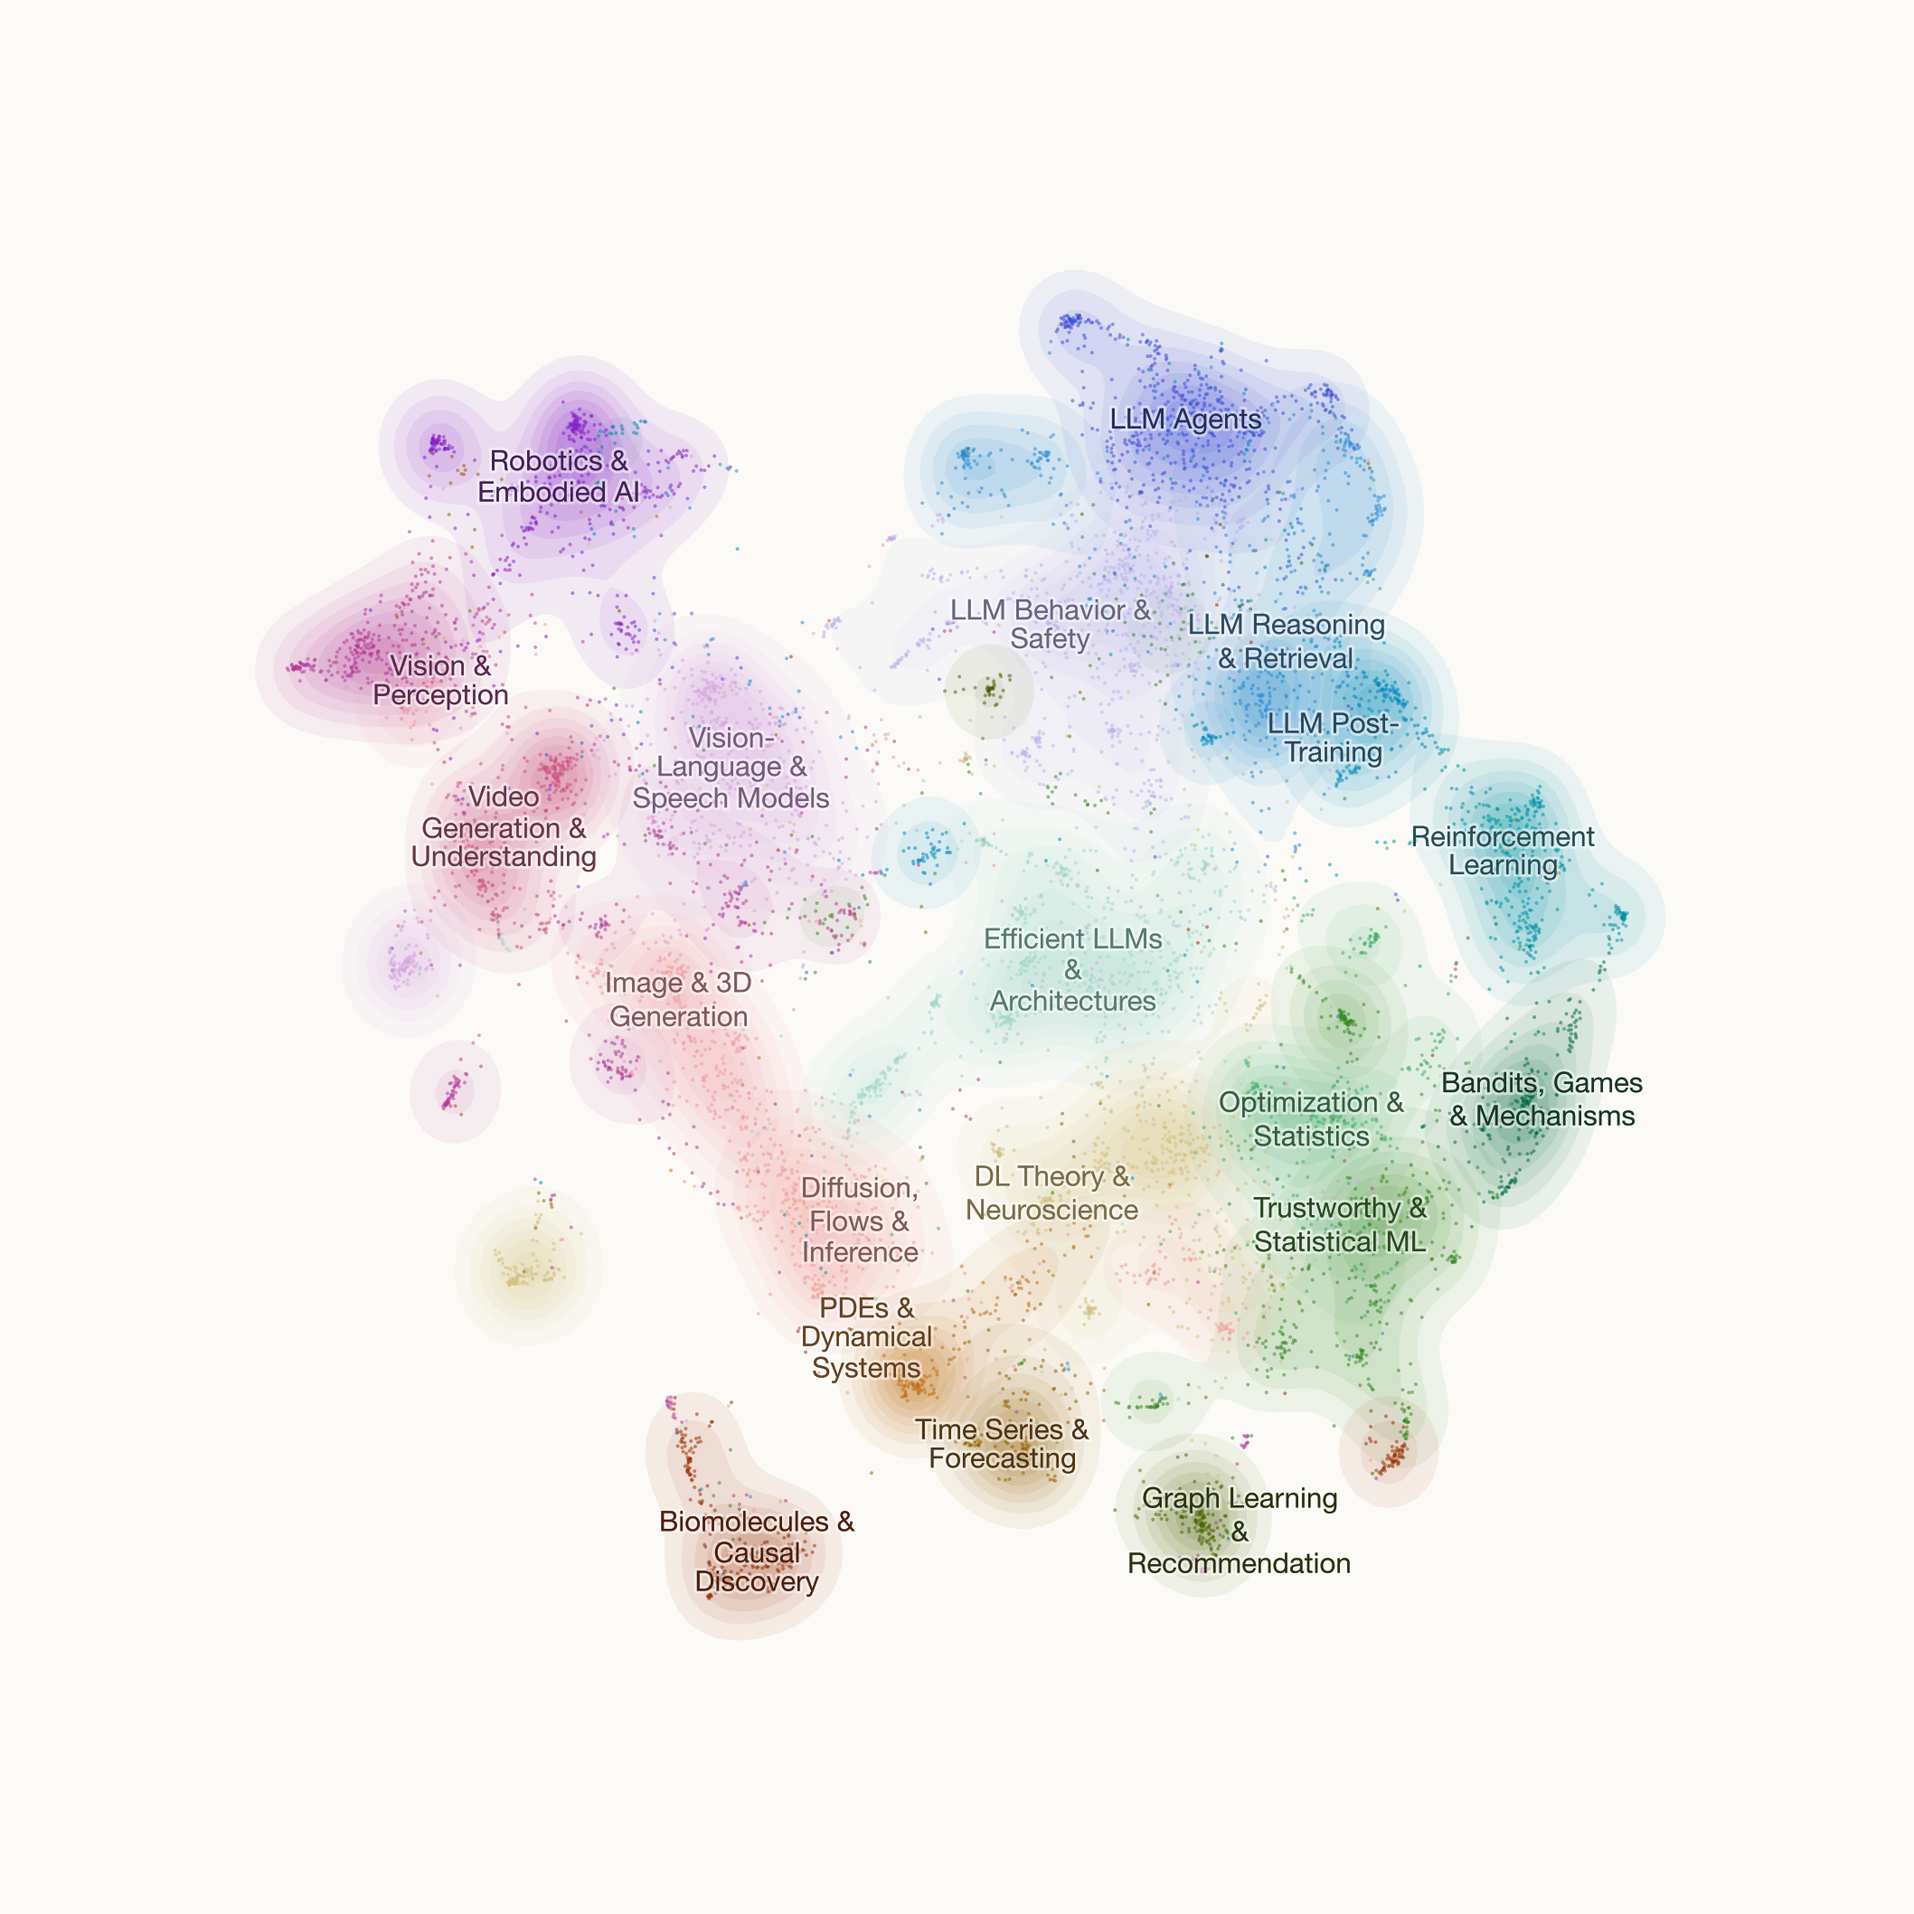
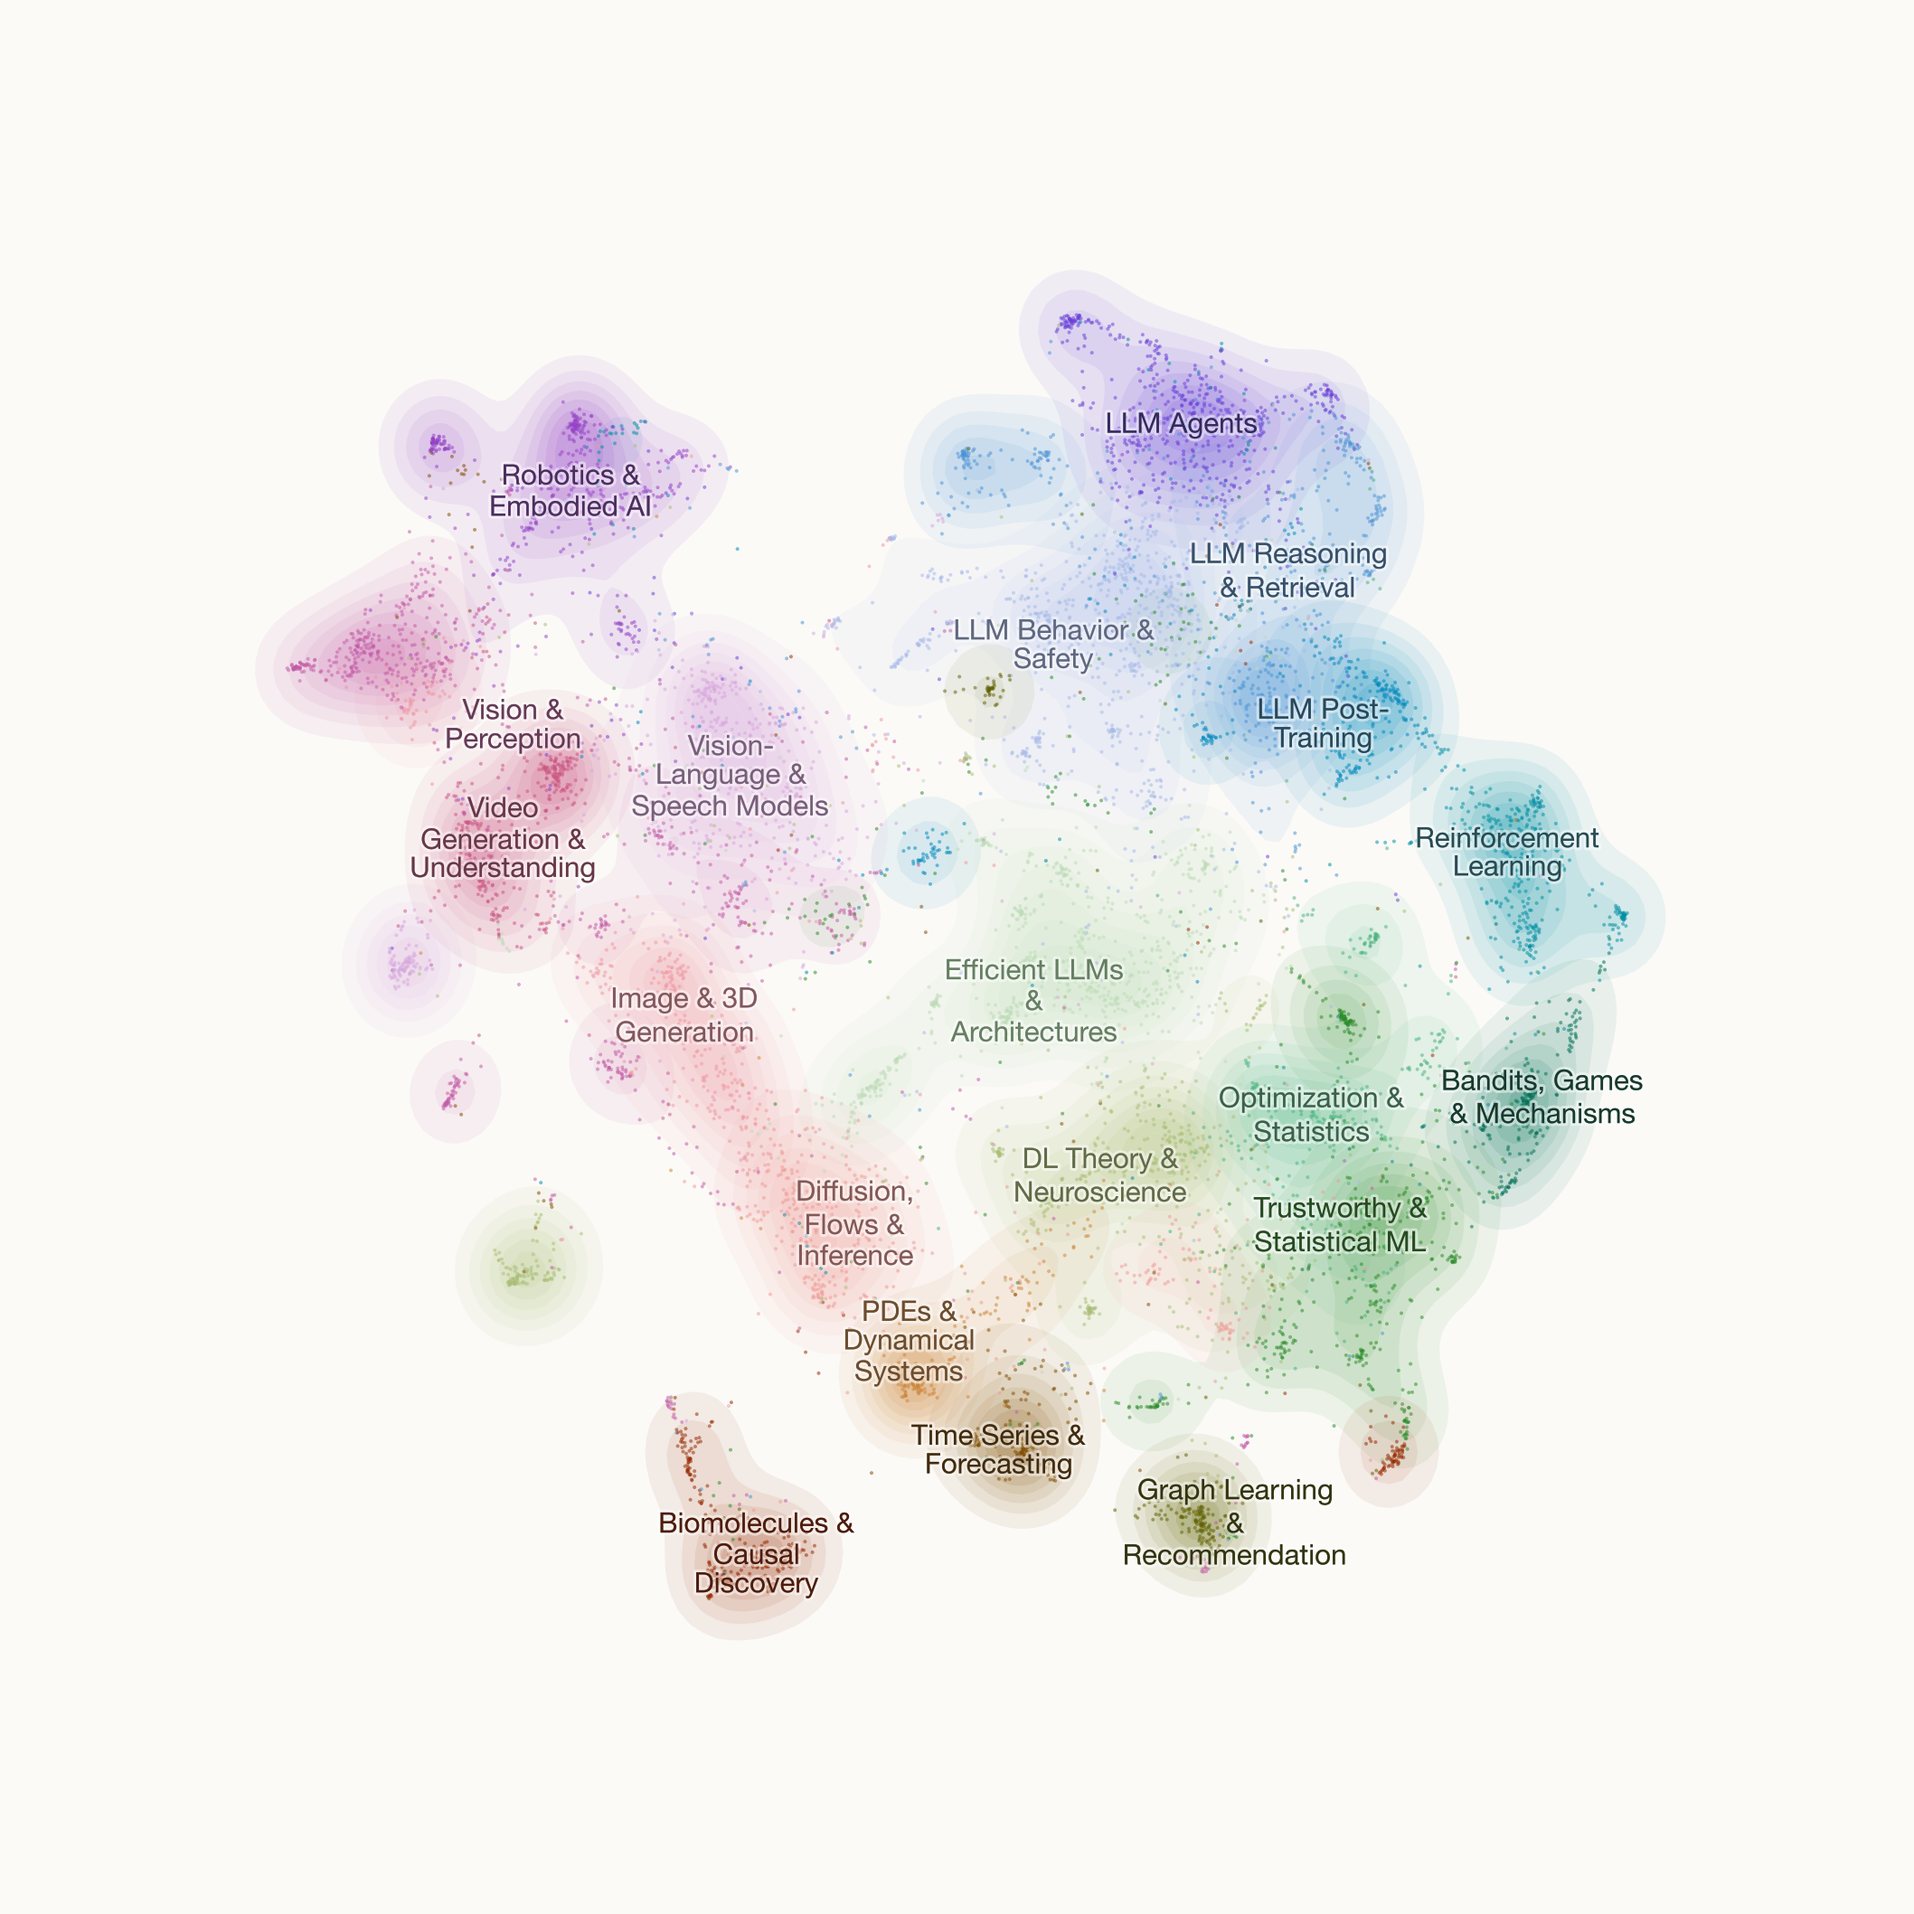
Load the live map only when the reader asks for it
The story page shows a picture of the map first. A click loads the live map,
or opens it full screen on phones, so the page stays fast.

diff --git a/docs/2026/index.html b/docs/2026/index.html
@@ -17,6 +17,8 @@
 .atlas-hero iframe{width:100%;height:min(78vh,760px);border:1px solid var(--rule);border-radius:10px;background:#fff;display:block;
   box-shadow:0 2px 18px rgba(30,58,95,.08)}
 .map-frame{position:relative}
+.map-preview{width:100%;height:min(78vh,760px);object-fit:contain;background:#fff;border:1px solid var(--rule);border-radius:10px;display:block}
+@media (max-width:720px){.map-preview{height:auto}}
 .map-cover{position:absolute;inset:0;border:0;background:transparent;cursor:pointer;display:flex;align-items:flex-end;justify-content:center;padding-bottom:18px}
 .map-cover span{font-family:var(--sans);font-size:.9rem;font-weight:500;background:var(--accent);color:#fff;padding:8px 14px;border-radius:8px;box-shadow:0 2px 10px rgba(0,0,0,.15)}
 .map-cover:hover span{background:var(--accent-hover)}
@@ -51,7 +53,7 @@
 <div class="post-body"><div class="post-wrap">
 <p>NeurIPS 2026 has 9,110 papers on its program. That is far too many to read, so I put them all on one map and compared them with the 5,856 papers from 2025.</p>
 <p>The big story is agents. Papers about LLM agents more than doubled their share of the conference.</p>
-</div><section class="container atlas-hero" aria-label="map of all papers"><div class="map-frame"><iframe src="atlas.html" title="Map of all NeurIPS 2026 papers"></iframe><button class="map-cover" type="button" onclick="this.remove()"><span>Click to explore the map</span></button></div><div class="actions"><a class="btn" href="atlas.html">Open the map full screen</a><a class="btn btn-ghost" href="papers.html">Search all papers</a></div></section><div class="post-wrap">
+</div><section class="container atlas-hero" aria-label="map of all papers"><div class="map-frame"><img class="map-preview" src="figures/atlas_clusters.png" alt="Map of all NeurIPS 2026 papers, coloured by research area"><button class="map-cover" type="button" onclick="openMap(this)"><span>Click to explore the map</span></button></div><div class="actions"><a class="btn" href="atlas.html">Open the map full screen</a><a class="btn btn-ghost" href="papers.html">Search all papers</a></div></section><script>function openMap(b){if(window.innerWidth<900){location.href="atlas.html";return;}b.parentNode.innerHTML='<iframe src="atlas.html" title="Map of all NeurIPS 2026 papers"></iframe>';}</script><div class="post-wrap">
 <h2 id="seven-things-that-stood-out">Seven things that stood out</h2>
 <ol type="1">
 <li>LLM agents went from 2.9% of papers in 2025 to 6.8% in 2026. That is 620 papers. No other area moved more than 2 points.</li>

diff --git a/docs/2026/appendix.html b/docs/2026/appendix.html
@@ -17,6 +17,8 @@
 .atlas-hero iframe{width:100%;height:min(78vh,760px);border:1px solid var(--rule);border-radius:10px;background:#fff;display:block;
   box-shadow:0 2px 18px rgba(30,58,95,.08)}
 .map-frame{position:relative}
+.map-preview{width:100%;height:min(78vh,760px);object-fit:contain;background:#fff;border:1px solid var(--rule);border-radius:10px;display:block}
+@media (max-width:720px){.map-preview{height:auto}}
 .map-cover{position:absolute;inset:0;border:0;background:transparent;cursor:pointer;display:flex;align-items:flex-end;justify-content:center;padding-bottom:18px}
 .map-cover span{font-family:var(--sans);font-size:.9rem;font-weight:500;background:var(--accent);color:#fff;padding:8px 14px;border-radius:8px;box-shadow:0 2px 10px rgba(0,0,0,.15)}
 .map-cover:hover span{background:var(--accent-hover)}

diff --git a/docs/index.html b/docs/index.html
@@ -17,6 +17,8 @@
 .atlas-hero iframe{width:100%;height:min(78vh,760px);border:1px solid var(--rule);border-radius:10px;background:#fff;display:block;
   box-shadow:0 2px 18px rgba(30,58,95,.08)}
 .map-frame{position:relative}
+.map-preview{width:100%;height:min(78vh,760px);object-fit:contain;background:#fff;border:1px solid var(--rule);border-radius:10px;display:block}
+@media (max-width:720px){.map-preview{height:auto}}
 .map-cover{position:absolute;inset:0;border:0;background:transparent;cursor:pointer;display:flex;align-items:flex-end;justify-content:center;padding-bottom:18px}
 .map-cover span{font-family:var(--sans);font-size:.9rem;font-weight:500;background:var(--accent);color:#fff;padding:8px 14px;border-radius:8px;box-shadow:0 2px 10px rgba(0,0,0,.15)}
 .map-cover:hover span{background:var(--accent-hover)}

diff --git a/src/09_build_site.py b/src/09_build_site.py
@@ -14,11 +14,15 @@ for f in (ROOT / "outputs/figures").glob("*.png"):
 
 HEIGHTS = {"treemap": 820, "vocabulary": 740}
 HERO = ('</div><section class="container atlas-hero" aria-label="map of all papers">'
-        '<div class="map-frame"><iframe src="atlas.html" title="Map of all NeurIPS 2026 papers"></iframe>'
-        '<button class="map-cover" type="button" onclick="this.remove()">'
-        '<span>Click to explore the map</span></button></div>'
+        '<div class="map-frame"><img class="map-preview" src="figures/atlas_clusters.png" '
+        'alt="Map of all NeurIPS 2026 papers, coloured by research area">'
+        '<button class="map-cover" type="button" onclick="openMap(this)"><span>Click to explore the map</span></button></div>'
         '<div class="actions"><a class="btn" href="atlas.html">Open the map full screen</a>'
-        '<a class="btn btn-ghost" href="papers.html">Search all papers</a></div></section><div class="post-wrap">')
+        '<a class="btn btn-ghost" href="papers.html">Search all papers</a></div></section>'
+        # the live map only loads on click; on small screens it opens full screen instead
+        '<script>function openMap(b){if(window.innerWidth<900){location.href="atlas.html";return;}'
+        'b.parentNode.innerHTML=\'<iframe src="atlas.html" title="Map of all NeurIPS 2026 papers"></iframe>\';}</script>'
+        '<div class="post-wrap">')
 
 
 def md_to_html(md_path):

diff --git a/src/site_template.py b/src/site_template.py
@@ -24,6 +24,8 @@ EXTRA_CSS = """
 .atlas-hero iframe{width:100%;height:min(78vh,760px);border:1px solid var(--rule);border-radius:10px;background:#fff;display:block;
   box-shadow:0 2px 18px rgba(30,58,95,.08)}
 .map-frame{position:relative}
+.map-preview{width:100%;height:min(78vh,760px);object-fit:contain;background:#fff;border:1px solid var(--rule);border-radius:10px;display:block}
+@media (max-width:720px){.map-preview{height:auto}}
 .map-cover{position:absolute;inset:0;border:0;background:transparent;cursor:pointer;display:flex;align-items:flex-end;justify-content:center;padding-bottom:18px}
 .map-cover span{font-family:var(--sans);font-size:.9rem;font-weight:500;background:var(--accent);color:#fff;padding:8px 14px;border-radius:8px;box-shadow:0 2px 10px rgba(0,0,0,.15)}
 .map-cover:hover span{background:var(--accent-hover)}
